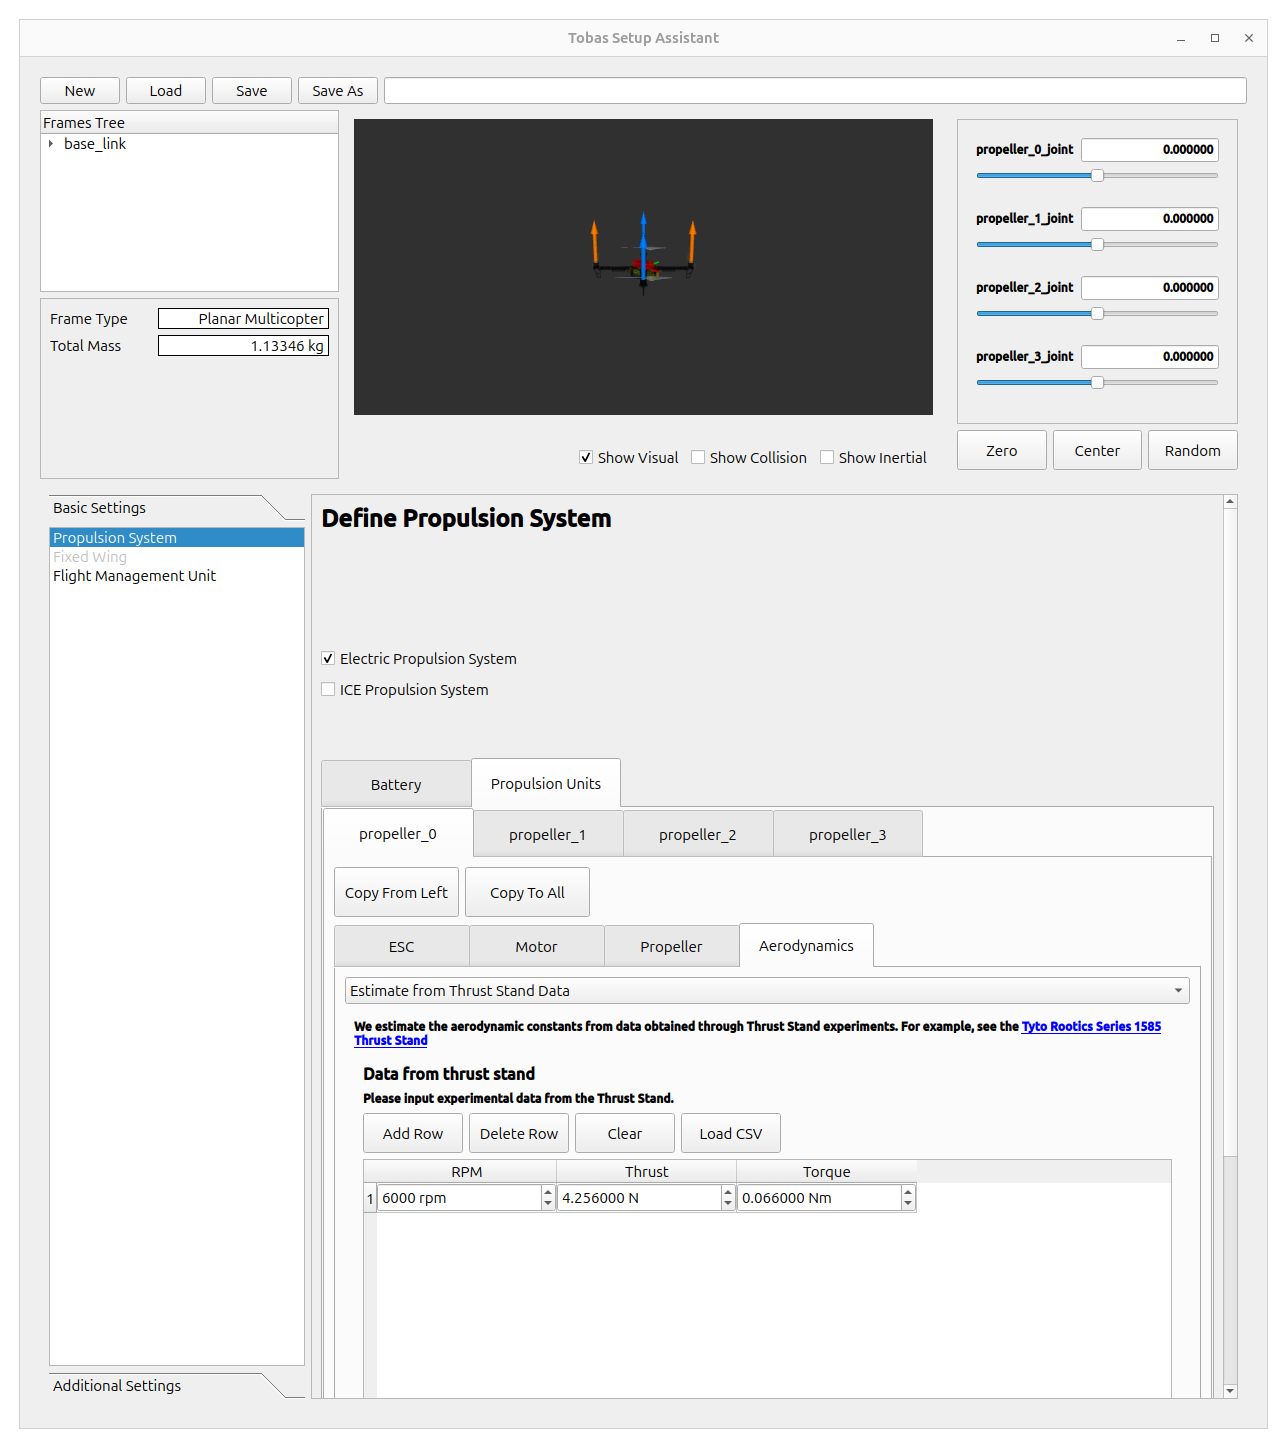
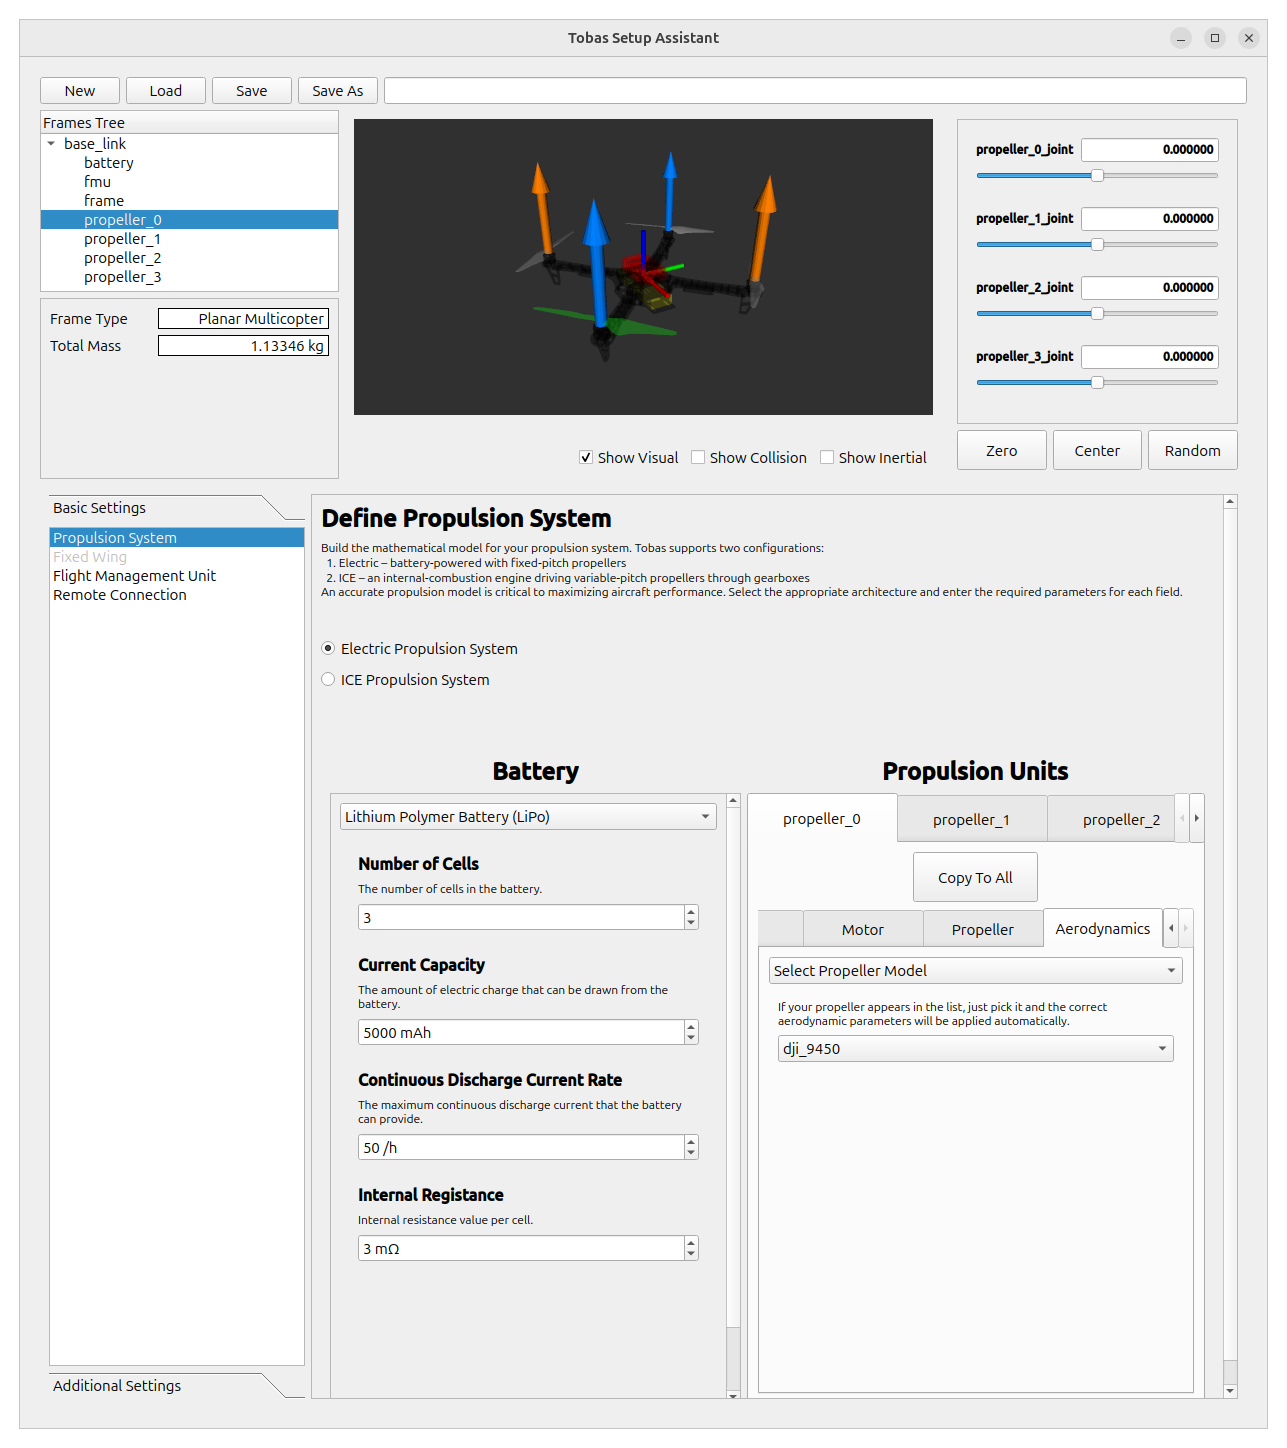
edit: setup_assistant

diff --git a/docs/setup_assistant.md b/docs/setup_assistant.md
@@ -55,8 +55,13 @@ $ ros2 launch tobas_setup_assistant setup_assistant.launch.py
 各推進ユニットの設定を行います．
 
 まず`propeller_0`リンクの設定を行います．
-機体との対応関係がわからない場合は，画面左上の`Frame Tree`からリンク名をクリックすることでモデルビューにハイライトされます．
 各部品の仕様を確認し，`ESC`，`Motor`，`Propeller`の各項目に適切な値を入力してください．
+
+<!-- prettier-ignore-start -->
+!!! note
+    機体上のプロペラと表示されているリンク名との対応関係がわからない場合は，
+    画面左上の`Frame Tree`からリンク名をクリックすることでモデルビューにハイライトされます．
+<!-- prettier-ignore-end -->
 
 ![propulsion/esc](resources/setup_assistant/propulsion/esc.png)
 
@@ -65,29 +70,37 @@ $ ros2 launch tobas_setup_assistant setup_assistant.launch.py
 ![propulsion/propeller](resources/setup_assistant/propulsion/propeller.png)
 
 `Aerodynamics`ではプロペラの空力特性の設定を行います．
-複数の設定方法から選ぶことができますが，プロペラ単体試験のデータを使用するのが望ましいです．
-今回はプルダウンから`Estimate from Thrust Stand Data`を選択します．
-`Load CSV`をクリックし，ファイルダイアログで`/opt/tobas/share/tobas_setup_assistant/data/thrust_stand/dji_9450.csv`を選択して`Open`をクリックします．
-すると，プロペラの試験データがテーブルに反映されます．
+複数の設定方法から選ぶことができますが，今回使用するプロペラである DJI 9450 は予めモデルが用意されているので，それを使います．
+最初の選択リストから`Select Propeller Model`を選択し，その下の選択リストで`dji_9450`を選択してください．
 
 ![propulsion/aerodynamics](resources/setup_assistant/propulsion/aerodynamics.png)
 
-この機体の 4 つの推進モジュールは全て同一なため，`Copy To All`をクリックし，`propeller_0`の設定を他の 3 つにコピーします．
+この機体の 4 つの推進ユニットは全て同一なため，`Copy To All`をクリックし，`propeller_0`の設定を他の 3 つにコピーします．
 `propeller_0`の設定が他のタブにも反映されていることを確認してください．
 
 ## Flight Management Unit
 
 ---
 
-ハードウェアに関するを設定を行います．
+ハードウェアに関する設定を行います．　
 `Tobas T1`が選択されていることを確認し，
 4 つの推進ユニットそれぞれについて，適切に DShot チャンネルを設定してください．
 
 ![fmu](resources/setup_assistant/fmu.png)
 
+## Remote Connection
+
+---
+
+地上局から FC に遠隔で接続するための設定を行います．
+`Hostname`を選択し，[Boot Device Configuration](./bootmedia_config.md)で設定した FC のホスト名を入力してください．
+FC 側に固定 IP を振っている場合は，それを指定することもできます．
+
+![remote_connection](resources/setup_assistant/remote_connection.png)
+
 ## プロジェクトの保存
 
-`Save`をクリックし，ファイルダイアログで`~/Tobas/colcon_ws/src/`以下に`f450.TBS`として保存します．
+`Save`をクリックし，ファイルダイアログで`~/Tobas/colcon_ws/src/`以下に`tobas_f450.TBS`として保存します．
 
 ![save](resources/setup_assistant/save.png)
 
